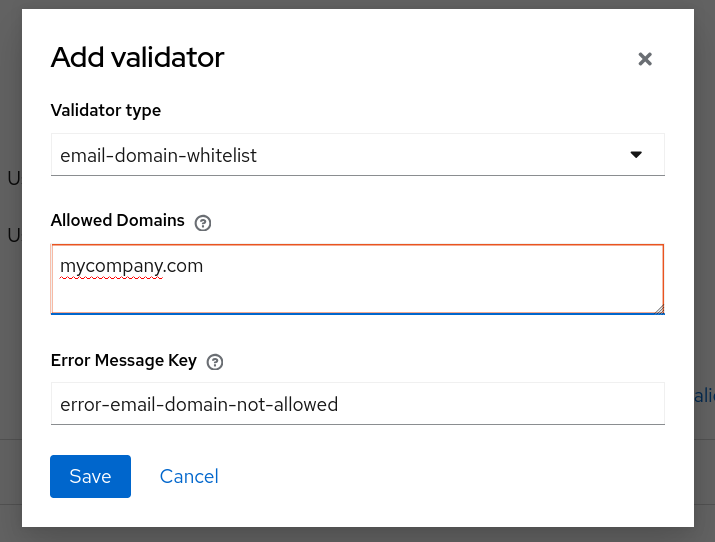
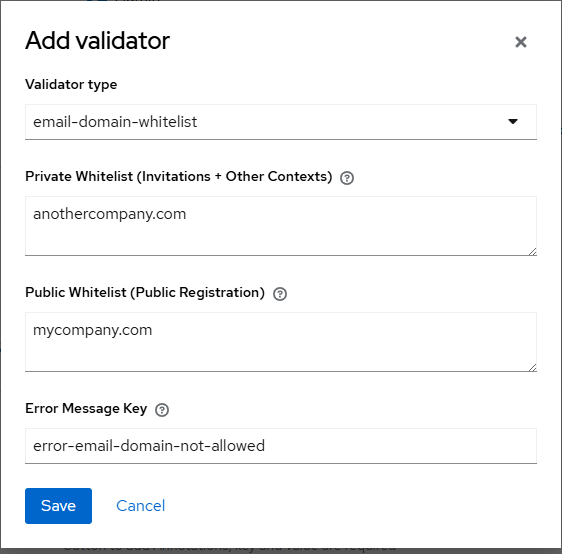
Enhance README.md to document dual whitelist feature and context-aware validation; update configuration options and examples

diff --git a/README.md b/README.md
@@ -13,12 +13,15 @@ This project has been inspired by the [keycloak-mail-whitelisting](https://githu
 ## Features
 
 - ✅ Validates email domains across all Keycloak contexts
+- ✅ **Dual whitelist**: separate `public-whitelist` and `private-whitelist` for context-aware validation
+- ✅ **Context detection**: public registration uses only the public whitelist; invitations and all other contexts use private + public combined
+- ✅ **Restrictive by default**: an empty whitelist blocks all domains (no permissive fallback)
+- ✅ **File-based defaults**: pre-populate whitelist fields from a JSON file via environment variable at validator creation time
 - ✅ Support for multiple allowed domains
 - ✅ Glob pattern matching with `*` (any characters) and `?` (single character) wildcards
 - ✅ Case-insensitive domain matching
 - ✅ Internationalized error messages (English, Spanish, French, Basque)
 - ✅ Easy configuration through Keycloak's User Profile UI
-- ✅ Permissive mode when no domains are configured
 
 ## Requirements
 
@@ -121,15 +124,10 @@ docker run -p 8080:8080 keycloak-with-domain-validator start-dev
 5. Expand the **Validations** section
 6. Click **Add Validator**
 7. Select **email-domain-whitelist** from the dropdown
-8. Configure the allowed domains:
-
-```
-mydomain.com
-myotherdomain.com
-*.contractor.com
-```
-
+8. Configure the two whitelist fields (see [Configuration Options](#configuration-options) below)
 9. Click **Save**
+
+> **Tip:** if you use file-based defaults (see below), the whitelist fields will be pre-populated from the JSON file when you open the "Add Validator" form.
 
 ### Via JSON Import/Export
 
@@ -145,7 +143,9 @@ You can configure the validator via realm JSON import:
         "validations": {
           "email": {},
           "email-domain-whitelist": {
-            "allowed-domains": "mydomain.com\nmyotherdomain.com\n*.contractor.com"
+            "private-whitelist": "mydomain.com\nmyotherdomain.com",
+            "public-whitelist": "mydomain.com",
+            "error-message": "error-email-domain-not-allowed"
           }
         }
       }
@@ -156,53 +156,96 @@ You can configure the validator via realm JSON import:
 
 ## Configuration Options
 
-### Allowed Domains
+### Public Whitelist (`public-whitelist`)
 
-Configure multiple domains separated by newlines or `##`. Each domain supports:
+Domains allowed for **public self-registration** (`/login-actions/registration` without an invitation token).
+
+- Multiple domains separated by newlines or `##`
+- Supports glob patterns (see below)
+- **Leave empty to block all public registrations**
+
+### Private Whitelist (`private-whitelist`)
+
+Domains allowed for **invitations and all other contexts** (email changes, account console, Admin API, etc.).
+
+At runtime, the effective allowed set for these contexts is `private-whitelist ∪ public-whitelist`.
+
+- Multiple domains separated by newlines or `##`
+- Supports glob patterns (see below)
+- **Leave empty to allow only the domains in the public whitelist for these contexts**
+
+### Domain Pattern Syntax
+
+Domains in both whitelists support:
 
 - **Exact match**: `mydomain.com`
 - **Subdomain wildcard**: `*.mydomain.com` (matches `sub.mydomain.com` but not `mydomain.com`)
-- **Single character wildcard**: `my?domain.com` (matches `mydomain.com`, `my1domain.com`, etc.)
+- **Single character wildcard**: `my?domain.com` (matches `my1domain.com`, etc.)
 - **Combined patterns**: `*.sub?.mydomain.com`
 
 **Notes:**
 - Leading `@` is optional (`@mydomain.com` = `mydomain.com`)
 - Domain matching is case-insensitive
-- Leave empty to allow all domains (permissive mode)
+- An **empty whitelist is restrictive** — it blocks all emails for that context (no permissive fallback)
 
-### Error Message
+### Error Message (`error-message`)
 
 Customize the error message key (optional):
 - Default: `error-email-domain-not-allowed`
 - The key must be defined in your theme's message properties
 - The message can include `{0}` placeholder for the list of allowed domains
 
+### File-Based Defaults (`EMAIL_WHITELIST_FILE`)
+
+Set the `EMAIL_WHITELIST_FILE` environment variable to a JSON file path so that the whitelist fields are **automatically pre-populated** every time the "Add Validator" form is opened in the Admin Console.
+
+```bash
+EMAIL_WHITELIST_FILE=/opt/keycloak/data/whitelist.json
+```
+
+**JSON format:**
+
+```json
+{
+  "private-whitelist": "mydomain.com\nmyotherdomain.com",
+  "public-whitelist": "mydomain.com",
+  "error-message": "error-email-domain-not-allowed"
+}
+```
+
+**Important notes:**
+- The file is read **each time the form opens** — no Keycloak restart required after updating the file, only delete and re-add the validator in the UI.
+- If the file does not exist or cannot be read, fields are pre-populated as empty (still usable).
+- This does **not** override the saved validator configuration — it only sets the default values shown in the form.
+
 ## Examples
 
-### Example 1: Simple Domain List
+### Example 1: Public registration restricted, invitations open
 
+**`public-whitelist`:**
 ```
 company.com
-company.org
-company.net
 ```
 
-**Allowed:**
-- `user@company.com`
-- `admin@company.org`
+**`private-whitelist`:**
+```
+company.com
+partner.com
+*.contractor.com
+```
 
-**Blocked:**
-- `user@gmail.com`
-- `user@company.co.uk`
+- Public registration: only `@company.com` allowed
+- Invitations / email changes: `@company.com`, `@partner.com`, any `@*.contractor.com` allowed
 
 ### Example 2: Wildcard Subdomains
 
+**`public-whitelist`:**
 ```
 *.company.com
 company.com
 ```
 
-**Allowed:**
+**Allowed** (public registration):
 - `user@company.com`
 - `user@dev.company.com`
 - `user@staging.company.com`
@@ -212,12 +255,13 @@ company.com
 
 ### Example 3: Pattern Matching
 
+**`private-whitelist`:**
 ```
 *.dev?.company.com
 prod.company.com
 ```
 
-**Allowed:**
+**Allowed** (invitations):
 - `user@dev1.company.com`
 - `user@deva.company.com`
 - `user@prod.company.com`
@@ -228,15 +272,17 @@ prod.company.com
 
 ## Validation Contexts
 
-This validator applies to ALL contexts where email is validated:
+The validator distinguishes between registration contexts and applies the appropriate whitelist:
 
-| Context | Description |
-|---------|-------------|
-| **Registration** | New user registration form |
-| **UPDATE_EMAIL** | Required action for email update |
-| **Update Profile** | User profile update flow |
-| **Account Console** | Account management console |
-| **Admin API** | REST API user management |
+| Context | Detection | Whitelist Used |
+|---------|-----------|----------------|
+| **Public Registration** | `/login-actions/registration` (no `token=` in query) | `public-whitelist` only |
+| **Invitation Registration** | Any path with `token=` in query string | `private-whitelist` ∪ `public-whitelist` |
+| **OpenID Connect Registration** | `/protocol/openid-connect/registrations` | `private-whitelist` ∪ `public-whitelist` |
+| **Account Console** | Path contains `/account/` | `private-whitelist` ∪ `public-whitelist` |
+| **UPDATE_EMAIL / Admin API / Other** | All other paths | `private-whitelist` ∪ `public-whitelist` |
+
+> **Key rule:** if the effective allowed set for a context is empty, **all domains are blocked** — there is no permissive fallback.
 
 ## Troubleshooting
 
@@ -253,13 +299,34 @@ grep -i "email-domain-whitelist" $KEYCLOAK_HOME/logs/keycloak.log
 ### Validation Not Working
 
 1. Verify the validator is added to the email attribute in User Profile
-2. Check the allowed domains configuration (no typos)
-3. Test with a simple exact match domain first
-4. Enable debug logging:
+2. Check that the whitelist is not empty — **an empty whitelist blocks all domains**
+3. Make sure you are checking the correct whitelist for the context (public vs private)
+4. Check Keycloak logs for the context detection line:
+   ```
+   Email validation - Path: ..., Query: ...
+   ```
+5. Test with a simple exact match domain first
+6. Enable debug logging:
 
 ```bash
 kc.sh start --log-level=org.keycloak.userprofile:debug
 ```
+
+### File-Based Defaults Not Loading
+
+1. Confirm `EMAIL_WHITELIST_FILE` environment variable is set inside the container:
+   ```bash
+   docker exec keycloak printenv | grep EMAIL_WHITELIST
+   ```
+2. Confirm the file exists at the path shown and is valid JSON:
+   ```json
+   {
+     "private-whitelist": "domain1.com\ndomain2.com",
+     "public-whitelist": "domain1.com"
+   }
+   ```
+3. Defaults are loaded every time the "Add Validator" form opens — **delete and re-add** the validator after editing the file; no Keycloak restart is needed.
+4. Search logs for `Email whitelist defaults loaded from file` to confirm the file was read.
 
 ### Error Messages Not Displaying
 
@@ -293,6 +360,22 @@ If you're currently using the FormAction-based validator:
 5. Optionally remove the old JAR
 
 The glob pattern syntax is fully compatible with the existing implementation.
+
+## Migration from `allowed-domains` (single-field) to dual whitelist
+
+Earlier versions of this plugin used a single `allowed-domains` field. The new version replaces it with two fields:
+
+| Old field | New field | Used for |
+|-----------|-----------|---------|
+| `allowed-domains` | `public-whitelist` | Public self-registration |
+| `allowed-domains` | `private-whitelist` | Invitations, email changes, Admin API, etc. |
+
+To migrate:
+1. Note your current `allowed-domains` value
+2. Delete the existing validator from the email attribute
+3. Add `email-domain-whitelist` again
+4. Set both `public-whitelist` and `private-whitelist` as needed
+5. Save
 
 ## Contributing
 
